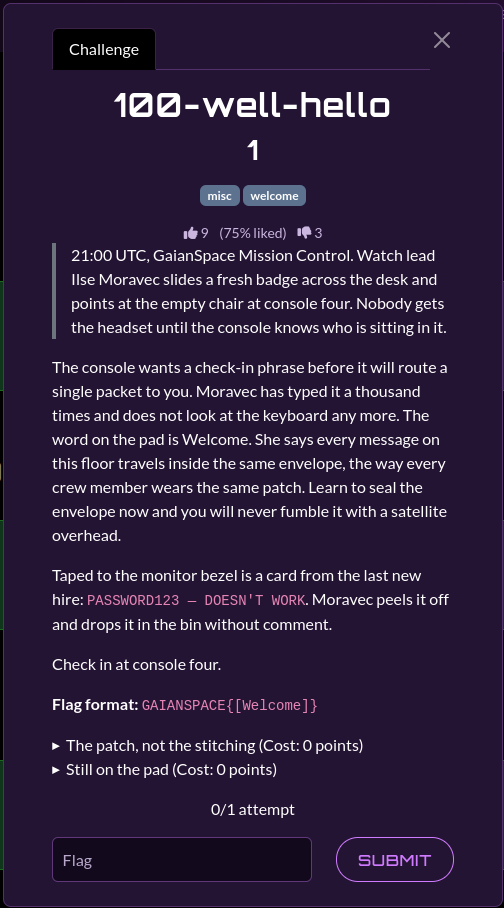
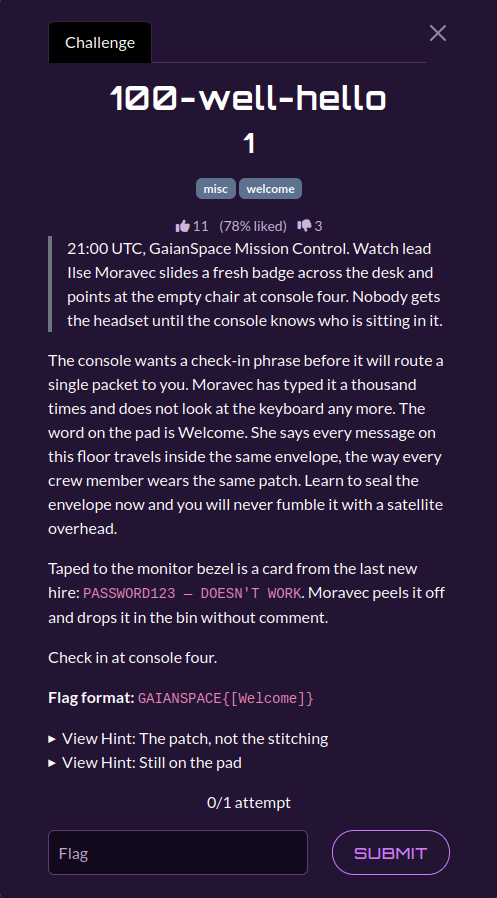
Update README.md

diff --git a/01-welcome/103-parked-birds/README.md b/01-welcome/103-parked-birds/README.md
@@ -15,6 +15,13 @@ The abandoned Americas program and the numbers `683 / 684 ms` are explicitly non
 
 **Attachments:** None (public-source research).
 
+## Hints
+
+Two hints were released during the event:
+
+1. **Who wrote the slogan** — The night shift got that line from the house. The same shelf as the crowded-sky briefing holds the long version.
+2. **Bought, then cancelled** — The two birds were ordered by the company that was bought, not by the one that bought it. Each one is a short name with a number. A program is not a bird.
+
 ## Solution
 
 ### Steps

diff --git a/01-welcome/101-this-is-gaianspace/README.md b/01-welcome/101-this-is-gaianspace/README.md
@@ -15,6 +15,13 @@ A whiteboard contains `LEO = 12,000+ ???` and `GEO is dead anyway`, but neither 
 
 **Attachments:** None (public-source research).
 
+## Hints
+
+Two hints were released during the event:
+
+1. **The house talks** — GaianSpace posts what it is watching where anyone can read it. Start with what the house has to say, not the whole internet.
+2. **A table, a year** — The 2024 figure sits beside other years and other fleets. The forecast is further down, near the end of the story, and it is a round number.
+
 ## Solution
 
 ### Steps

diff --git a/01-welcome/102-cs-for-gs/README.md b/01-welcome/102-cs-for-gs/README.md
@@ -15,6 +15,13 @@ A separate historical incident at a Norwegian ground station is deliberately men
 
 **Attachments:** None (public-source research).
 
+## Hints
+
+Two hints were released during the event:
+
+1. **Same shelf** — The piece Moravec means sits next to the one you read for the crowded-sky briefing.
+2. **The recent one** — Among the incidents in that piece, only one is this recent and only one wiped the terminals themselves. The house puts its name in quotes.
+
 ## Solution
 
 ### Steps

diff --git a/01-welcome/100-well-hello/README.md b/01-welcome/100-well-hello/README.md
@@ -13,6 +13,13 @@ At 21:00 UTC, the new operator checks in at console four. The watch lead, Ilse M
 
 **Attachments:** None.
 
+## Hints
+
+Two hints were released during the event:
+
+1. **The patch, not the stitching** — Moravec says the brackets on the card are where the word goes. They are not part of the word.
+2. **Still on the pad** — Copy it almost exactly. The console is fussy about capital letters and does not forgive stray spaces.
+
 ## Solution
 
 ### Steps
